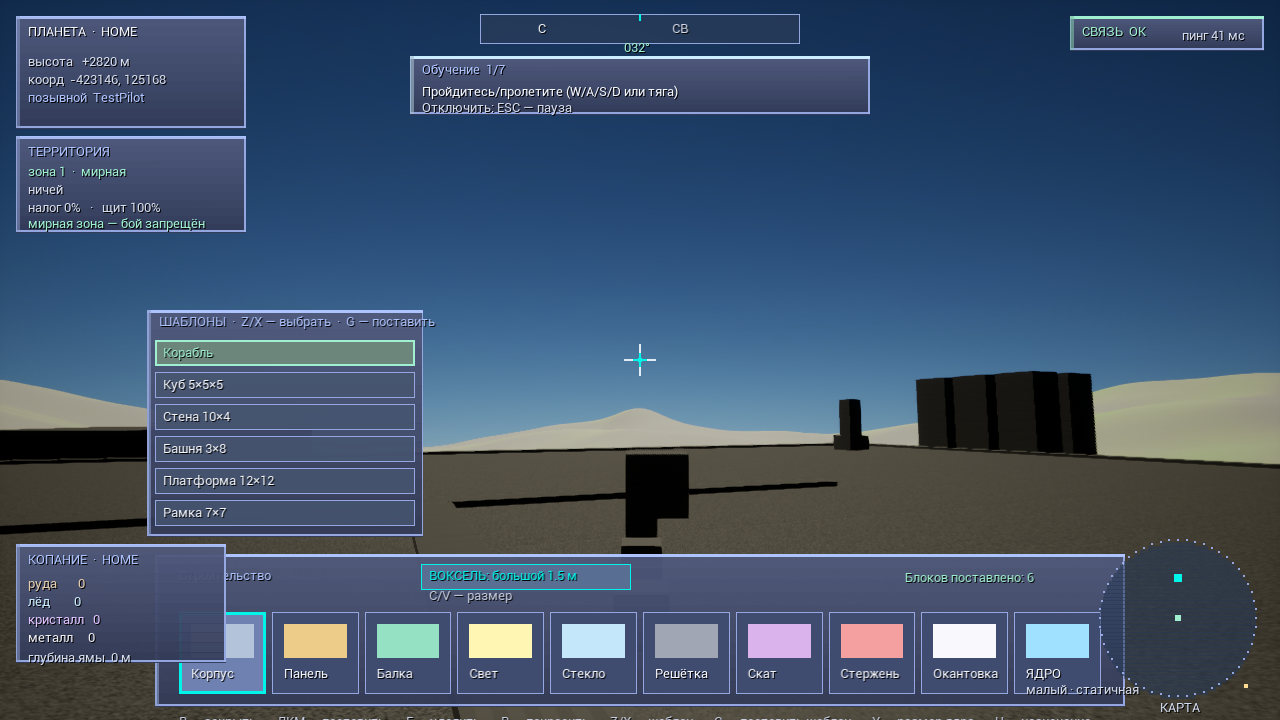
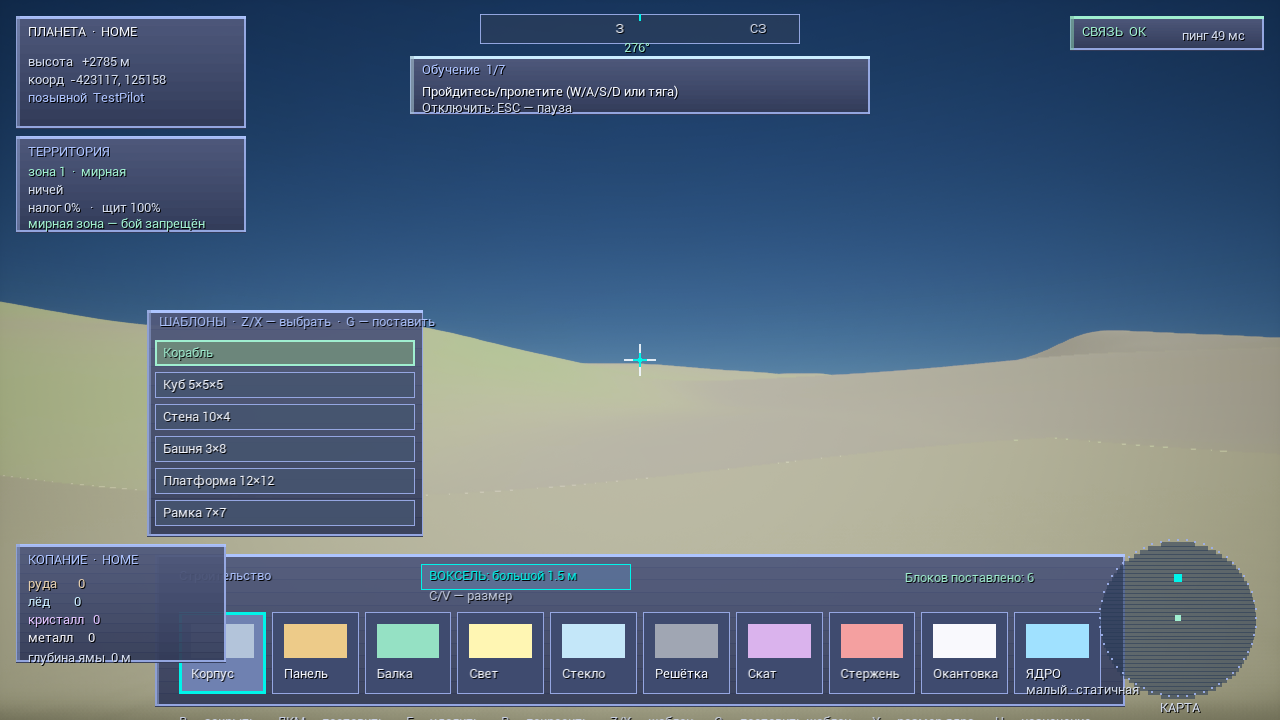
docs(site): refresh report screenshots from the second PC (smooth terrain, spawn without base/pad, palette, voxel sizes) + new 'spawn ground' figure

Changed region(s): [[0.0, 0.3972, 1.0, 1.0], [0.0625, 0.0611, 0.0938, 0.1222], [0.4688, 0.0611, 0.5, 0.0917]]

diff --git a/i18n.js b/i18n.js
@@ -400,6 +400,7 @@ window.OU_I18N = {
     "rep.building.lead": "Кадры ниже — из реального запуска клиента на втором ПК, который ведёт сам автотест: клики мышью не нужны. Воксели по полметра, девять типов блоков в палитре, ядра с лимитами и коллизия — персонаж не проходит сквозь построенное.",
     "rep.fig.palette": "Стройка вокселями (базовая ступень 0.5 м). В палитре внизу — девять типов блоков (корпус, панель, балка, свет, стекло, решётка, скат, стержень, окантовка) и слот <b>ЯДРО</b>; размер кисти переключается <code>C/V</code>.",
     "rep.fig.voxelsizes": "Окно размеров вокселя (<code>V</code>): кисти 0.5 / 1 / 1.5 м. Блоки разного размера стыкуются гранями.",
+    "rep.fig.spawnground": "Площадка появления — <b>обычный природный рельеф</b>: фиксированную базу и выровненную площадку убрали, поэтому игрок строит свою базу где угодно. Земля гладкая (без воксельной «плитки» и террас), мирная зона на спавне сохранена.",
     "rep.h.ue": "Каркас UE5-клиента и проверка протокола",
     "rep.ue.lead": "Движок Unreal Engine 5 установлен, C++-модуль <b>собран, редактор открывает 3D-сцену</b>, и клиент <b>подключается к Rust-серверу</b>: получает свой id, шлёт ввод 30 Гц и рисует других игроков. Стенд берёт реальный пакет Rust-сервера и разбирает его тем же кодом, что и клиент UE5.",
     "rep.fig.ueeditor": "Редактор Unreal Engine 5, карта <code>/Game/Maps/OpenUniverse</code>: воксельная планета (cube-to-sphere, рельеф из двух октав шума, цвет по высоте — океан → трава → снег). Сцена достраивается автоматически в <code>AOUGameMode</code>.",
@@ -828,6 +829,7 @@ window.OU_I18N = {
     "rep.building.lead": "The frames below are from a real client run on a second PC, driven by the automated test itself — no mouse clicks. Half-metre voxels, nine block types in the palette, cores with limits, and collision: the character cannot walk through what was built.",
     "rep.fig.palette": "Voxels being built (0.5 m base step). The palette at the bottom shows nine block types (hull, panel, beam, light, glass, grille, ramp, rod, trim) and the <b>CORE</b> slot; brush size is switched with <code>C/V</code>.",
     "rep.fig.voxelsizes": "The voxel-size window (<code>V</code>): 0.5 / 1 / 1.5 m brushes. Blocks of different sizes connect face to face.",
+    "rep.fig.spawnground": "The spawn area is <b>plain natural terrain</b>: the fixed base and the flattened platform were removed, so the player builds their own base anywhere. The ground is smooth relief (no voxel-cell tiling, no terraces), and the peaceful zone at spawn is kept.",
     "rep.h.ue": "UE5 client skeleton and protocol verification",
     "rep.ue.lead": "Unreal Engine 5 is installed, the C++ module <b>builds and the editor opens a 3D scene</b>, and the client <b>connects to the Rust server</b>: it receives its own id, sends input at 30 Hz and draws other players. The test harness takes a real Rust server packet and parses it with the same code as the UE5 client.",
     "rep.fig.ueeditor": "The Unreal Engine 5 editor, map <code>/Game/Maps/OpenUniverse</code>: a voxel planet (cube-to-sphere, terrain from two octaves of noise, color by height — ocean → grass → snow). The scene is assembled automatically in <code>AOUGameMode</code>.",

diff --git a/report.html b/report.html
@@ -254,6 +254,11 @@ $ cargo run -p ou-script --bin ou-script-demo
       </figure>
     </div>
 
+    <figure class="shot">
+      <img src="assets/ue-spawn-ground.png" alt="Spawn ground on the home planet: natural smooth terrain, no base" />
+      <figcaption data-i18n="rep.fig.spawnground">The spawn area is <b>plain natural terrain</b>: the fixed base and the flattened platform were removed, so the player builds their own base anywhere. The ground is smooth relief (no voxel-cell tiling, no terraces), and the peaceful zone at spawn is kept.</figcaption>
+    </figure>
+
     <h3 data-i18n="rep.h.ue">UE5 client skeleton and protocol verification</h3>
     <p data-i18n="rep.ue.lead">Unreal Engine 5 is installed, the C++ module <b>builds and the editor opens a 3D scene</b>, and the client <b>connects to the Rust server</b>: it receives its own id, sends input at 30 Hz and draws other players. The test harness takes a real Rust server packet and parses it with the same code as the UE5 client.</p>
 
